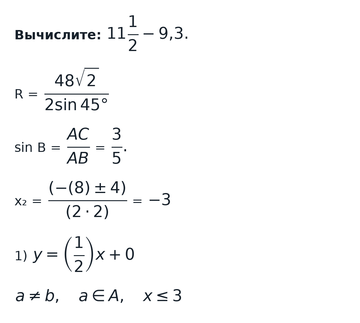
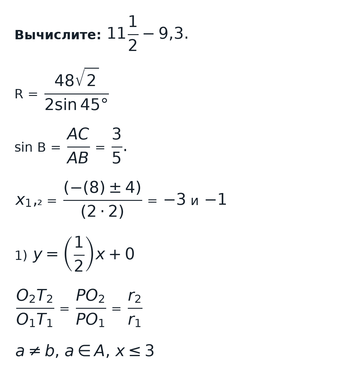
Typeset indexed segment ratios and detect unformatted quotients in generated samples

diff --git a/scripts/family_contract_audit.py b/scripts/family_contract_audit.py
@@ -1,10 +1,11 @@
 """Check generated variants and summarize template risks without contacting Telegram."""
 
 import json
+import re
 from collections import Counter, defaultdict
 
 from app.bot.family_display import typeset_family_text
-from app.bot.math_notation import rich_needs_png_fallback
+from app.bot.math_notation import math_spans, rich_needs_png_fallback
 from app.bot.part2 import solution_text, statement_text
 from app.bot.scenario_training import PUBLIC_FAMILIES, public_registry
 from app.bot.task_view import question_text
@@ -15,7 +16,20 @@ from scripts.oge_bank_quality_audit import _oracle, _ordinary_generator
 
 
 def check_layout(family, texts):
-    return any(rich_needs_png_fallback(typeset_family_text(text, family)) for text in texts)
+    unsafe = False
+    for text in texts:
+        normalized = typeset_family_text(text, family)
+        unsafe |= rich_needs_png_fallback(normalized)
+        for span in math_spans(normalized):
+            if span.latex or "/" not in span.source:
+                continue
+            # Ordinary text can contain tyre markings and file-format names.
+            prose = span.source.replace("SVG/PNG", "")
+            if family.startswith("TYRES-"):
+                prose = re.sub(r"\b\d{3}/\d{2,3}\s*R\d{2}\b", "", prose)
+            if re.search(r"[a-zA-Z\d₀-₉²³)]\s*/\s*[(a-zA-Z\d]", prose):
+                raise ValueError(("unformatted quotient", family, prose))
+    return unsafe
 
 
 def story_samples():

diff --git a/scripts/math_mobile_audit.py b/scripts/math_mobile_audit.py
@@ -41,7 +41,19 @@ def previews(dest):
         if c["source_id"] == "315053"
     )
     drawing = next(v for v in example["visuals"] if v["role"] == "condition")
+    family_dir = dest.parent / "family-contracts"
+    family_dir.mkdir(exist_ok=True)
+    family_text = "\n\n".join(typeset_family_text(text, family) for family, text in [
+        ("OGE06-F006-MIXED-MINUS-DECIMAL", "Вычислите: 11 1/2 − 9,3."),
+        ("OGE16-D04", "R = 48√2/(2 · sin 45°)"),
+        ("OGE15-F15", "sin B = AC / AB = 3 / 5."),
+        ("OGE09-K3", "x₁,₂ = (−(8) ± 4)/(2·2) = −3 и −1"),
+        ("OGE11-F05", "1) y=1/2x+0"),
+        ("OGE24-common-tangent-ratio", "O₂T₂/ O₁T₁ = PO₂/PO₁ = r₂/r₁"),
+        ("OGE13-L01", r"\(a\ne b\), \(a\in A\), \(x\le 3\)"),
+    ])
     for width in (360, 390):
+        mobile(width, family_text).save(family_dir / f"fractions-{width}.png")
         mobile(width).save(dest / f"formulas-{width}.png")
         mobile(width, statement_text(example), figure(drawing["path"])).save(
             dest / f"geometry-{width}.png"

diff --git a/app/bot/family_display.py b/app/bot/family_display.py
@@ -69,7 +69,7 @@ def typeset_family_text(text: str, source: object) -> str:
     parts = []
     # Segment labels contain two capital letters. Do not reinterpret units, tyre codes,
     # slash-separated words, or an unparenthesized algebraic denominator such as a/bc.
-    operand = r"(?:[A-Z]{2}[²³]?|\d+(?:[,.]\d+)?(?:\^\d+|[²³])?|[xy])"
+    operand = r"(?:(?:[A-Z][₀-₉]?){2}[²³]?|r[₀-₉]|\d+(?:[,.]\d+)?(?:\^\d+|[²³])?|[xy])"
     quotient = rf"(?<![\w/√])({operand})\s*/\s*({operand})(?![\w/^(²³])"
     for span in math_spans(text):
         value = span.source

diff --git a/tests/test_family_contracts.py b/tests/test_family_contracts.py
@@ -111,6 +111,9 @@ def test_exhausted_tail_and_cycle_boundary_do_not_force_repeat():
     [
         ("OGE24-similar-parallels", "(AB−AM)/AM = (AC−AN)/AN",
          (r"\frac{AB-AM}{AM}", r"\frac{AC-AN}{AN}")),
+        ("OGE24-common-tangent-ratio", "O₂T₂/ O₁T₁ = PO₂/PO₁ = r₂/r₁",
+         (r"\frac{O_{2}T_{2}}{O_{1}T_{1}}", r"\frac{PO_{2}}{PO_{1}}", r"\frac{r_{2}}{r_{1}}")),
+        ("OGE24-cyclic-altitudes", "A₁B₁/AB = cos ∠C", (r"\frac{A_{1}B_{1}}{AB}",)),
         ("OGE24-midline-proof", "S(AMK) = S(ABC)/4", (r"\frac{S(ABC)}{4}",)),
     ],
 )
